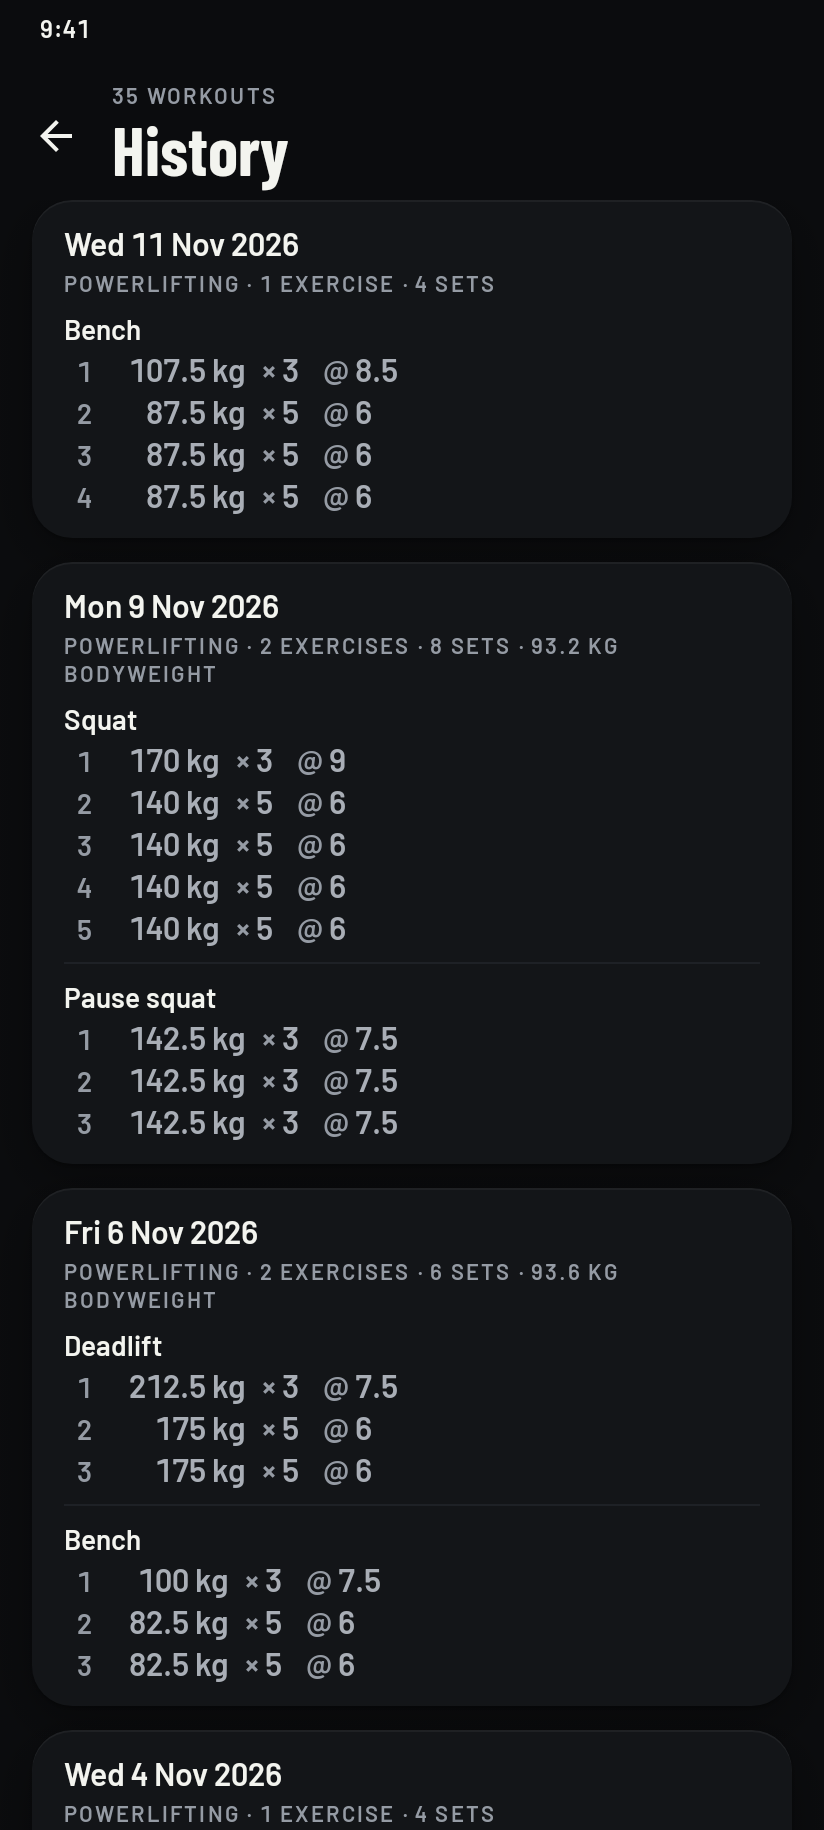
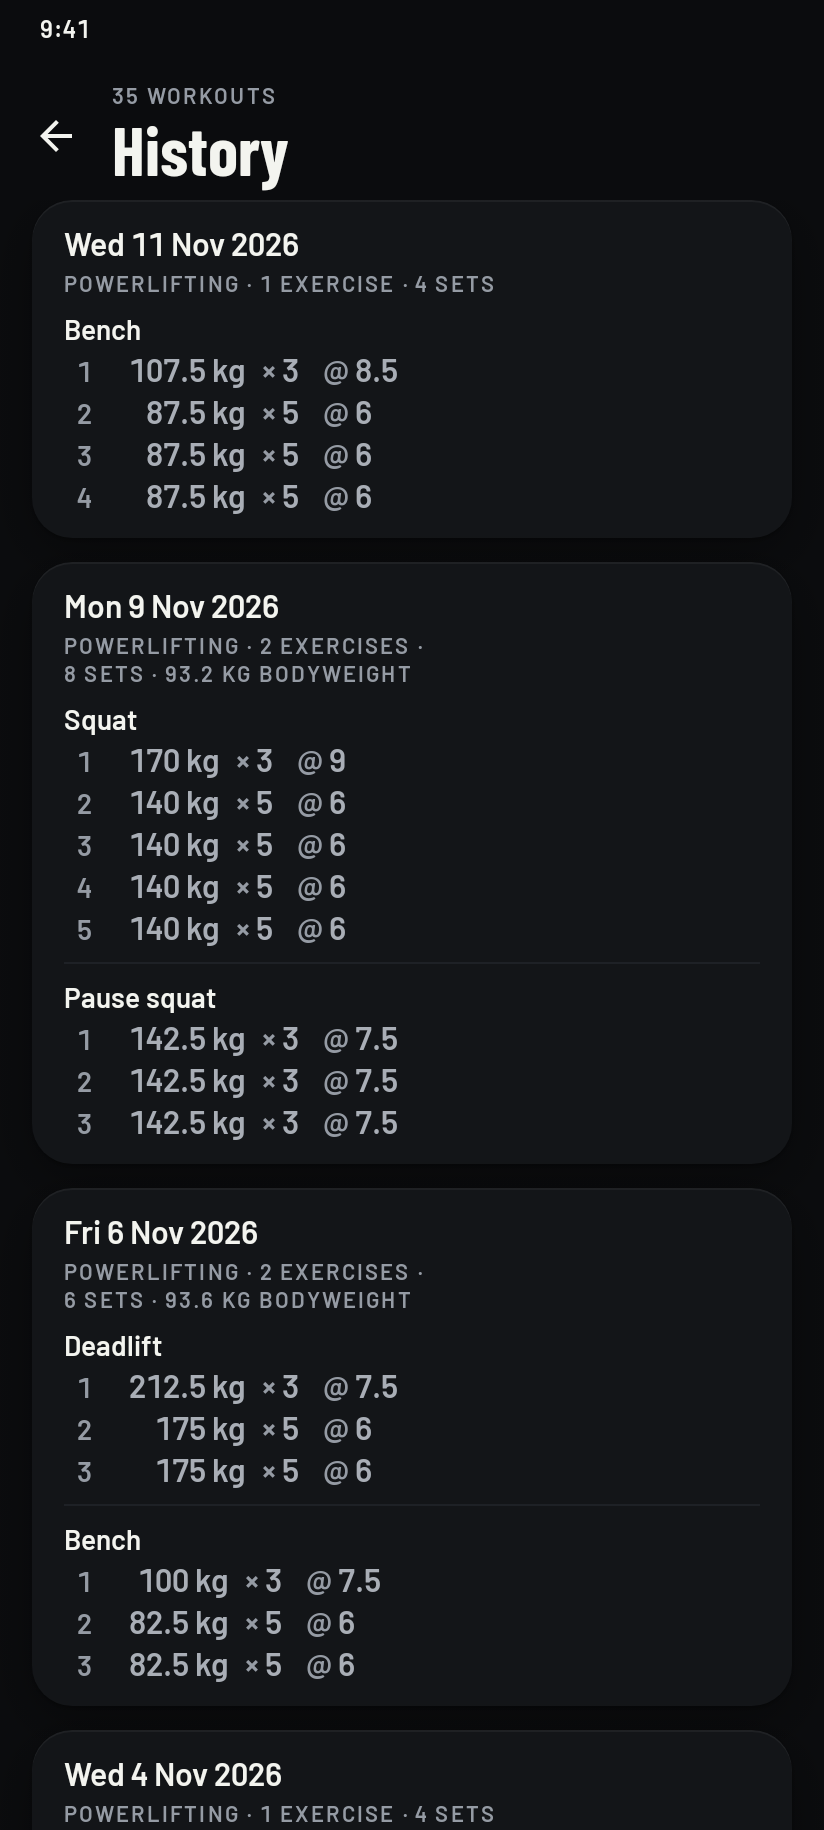
fix(android): History's summary line wraps evenly; the Progress header is checked whole beside its button
Claude-Session: https://claude.ai/code/session_01KboHw6FdBYrNDSMx1QWyzy

diff --git a/app/src/main/kotlin/com/powertracker/ui/progress/WorkoutHistoryScreen.kt b/app/src/main/kotlin/com/powertracker/ui/progress/WorkoutHistoryScreen.kt
@@ -20,6 +20,7 @@ import androidx.compose.ui.Modifier
 import androidx.compose.ui.platform.testTag
 import androidx.compose.ui.semantics.heading
 import androidx.compose.ui.semantics.semantics
+import androidx.compose.ui.text.style.LineBreak
 import androidx.lifecycle.compose.collectAsStateWithLifecycle
 import androidx.lifecycle.viewmodel.compose.viewModel
 import com.powertracker.data.TrainingRepository
@@ -91,8 +92,14 @@ private fun WorkoutCard(workout: Workout) {
             color = scheme.onSurface,
             modifier = Modifier.semantics { heading() },
         )
-        // Wraps: a summary with a bodyweight is longer than the card at a large font size.
-        Text(workout.summary.uppercase(), style = MaterialTheme.typography.labelSmall, color = PowertrackerTheme.colors.muted, modifier = Modifier.padding(bottom = Space.xs))
+        // Wraps: a summary with a bodyweight is longer than the card. Balanced, as the web's: no one word left alone on
+        // the second line.
+        Text(
+            workout.summary.uppercase(),
+            style = MaterialTheme.typography.labelSmall.copy(lineBreak = LineBreak.Heading),
+            color = PowertrackerTheme.colors.muted,
+            modifier = Modifier.padding(bottom = Space.xs),
+        )
         workout.exercises.forEachIndexed { i, exercise ->
             if (i > 0) SoftDivider(Modifier.padding(vertical = Space.xs))
             Column(verticalArrangement = Arrangement.spacedBy(Space.xxs)) {

diff --git a/app/src/test/kotlin/com/powertracker/ui/WorkoutHistoryScreenTest.kt b/app/src/test/kotlin/com/powertracker/ui/WorkoutHistoryScreenTest.kt
@@ -231,6 +231,15 @@ class WorkoutHistoryScreenTest {
             // A compact button, as Today's Finish is: 40 dp at least.
             assertTrue("$mode: the History button keeps its height", button.bottom - button.top >= androidx.compose.ui.unit.Dp(39.5f))
             compose.assertTextsFit()
+            // Beside the button the caption and the title have less room, and each is one line: a one-line text that
+            // runs out of room drops its tail without an ellipsis, which the check above cannot see. So: every letter
+            // of each is on its line.
+            for (text in listOf(if (mode == TrainingMode.BODYBUILDING) "BEST SET PER SESSION" else "ESTIMATED 1RM", "Progress")) {
+                val node = compose.onNodeWithText(text, useUnmergedTree = true).fetchSemanticsNode()
+                val layout = mutableListOf<androidx.compose.ui.text.TextLayoutResult>().also { node.config[androidx.compose.ui.semantics.SemanticsActions.GetTextLayoutResult].action?.invoke(it) }.single()
+                assertEquals("$mode: \"$text\" is whole", text.length, layout.getLineEnd(layout.lineCount - 1, visibleEnd = true))
+                assertTrue("$mode: \"$text\" is not cut at the bottom", !layout.didOverflowHeight)
+            }
         }
         history = true
         shown.value = side to history

diff --git a/docs/design/DESIGN.md b/docs/design/DESIGN.md
@@ -8,7 +8,7 @@ big condensed tabular numerals you can read from the floor of a dim gym. One acc
 the single next action; every other colour means a state (PR, stall, deload) or a real object (a plate).
 
 Mockups: `docs/design/screens/` (rendered by `ScreenshotTest` from the real components; the
-`today-*`, `coach-*`, `progress-*` and `lift-history-*` ones are the real screens with sample state). A normal
+`today-*`, `coach-*`, `progress-*`, `lift-history-*` and `history-*` ones are the real screens with sample state). A normal
 test run only renders them to `app/build/screenshots/` as a smoke check. To update the committed
 PNGs after a visual change, run
 `./gradlew :app:testDebugUnitTest --tests '*ScreenshotTest*' -Pscreenshots.update=true` and look at them.
